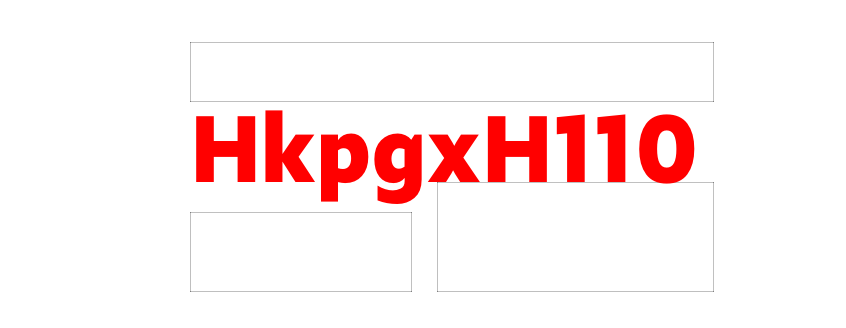
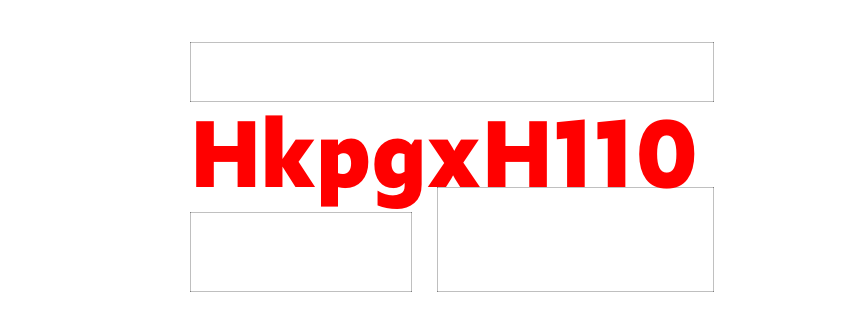
Add SketchContext testing examples
Add FlatContext testing examples

diff --git a/Basics/E11_Flat/E00_FlatTextPosition.py b/Basics/E11_Flat/E00_FlatTextPosition.py
@@ -1,0 +1,51 @@
+
+from flat import rgb, font, shape, strike, document, paragraph, text
+from pagebot.fonttoolbox.objects.font import findFont
+
+# Get the PageFont instance
+pbFont = findFont('PageBot-Regular')
+fontSize = 200
+red = rgb(255, 0, 100)
+black = rgb(0, 0, 0)
+flatFont = font.open(pbFont.path)
+
+figure = shape().stroke(black).width(2.5)
+strk = strike(flatFont).color(red).size(fontSize, tracking=0.1)
+
+# Flat has origin in top-left
+flatDoc = document(1000, 1300, 'pt')
+flatPage = flatDoc.addpage()
+
+x = 50
+y = 100
+flatPage.place(figure.rectangle(x, y, 20, 20))
+placedText = flatPage.place(strk.text('textV.W.Hkpx'))
+placedText.position(x, y) # Placing on top of text
+# Placing as frame seems to give not control on vertical position.
+placedText = flatPage.place(strk.text('Hkpx'))
+placedText.frame(x+400, y, placedText.width, fontSize)
+
+y = 600
+flatPage.place(figure.rectangle(x, y-20, 20, 20))
+placedText = flatPage.place(strk.text('Hkpx'))
+ascender = fontSize*pbFont.info.typoAscender/pbFont.info.unitsPerEm
+# Placing as frame seems to give not control on vertical position.
+#placedText.position(x, 400-) # Placing on baseline
+placedText.frame(x, y-ascender, placedText.width, fontSize)
+
+# Mixing spans in a paragraph to make baselines the same.
+y = 900
+flatPage.place(figure.rectangle(x, y-20, 20, 20))
+spans = []
+for fontSize in range(50, 300, 50):
+    strk = strike(flatFont).color(red).size(fontSize)
+    spans.append(strk.span('Hn'))
+par = [paragraph(spans)]
+placedText = flatPage.place(text(par))
+# Placing as frame seems to give not control on vertical position.
+#placedText.position(x, 400-) # Placing on baseline
+ascender = fontSize*pbFont.info.typoAscender/pbFont.info.unitsPerEm
+placedText.frame(x, y-ascender, placedText.width, fontSize)
+flatDoc.pdf('_export/E00_TextPosition.pdf')
+
+print('Done')

diff --git a/Basics/E10_Sketch/E01_HkpgxH110FromSketch.py b/Basics/E10_Sketch/E01_HkpgxH110FromSketch.py
@@ -64,10 +64,11 @@ print('Font/fontSize/leading:', font, fontSize, leading)
 # Create a drawBotContext to save the Sketch based Document as other format.
 # The content and styles of the BabelStrings comes from the Sketch file,
 # but they are converted to DrawBot behavior, able to export to PDF.
-drawBotContext = getContext('DrawBot')
-# Create a Document instance with this DrawBotContext and let the 
+#exportContext = getContext('DrawBot')
+exportContext = getContext('Flat')
+# Create a Document instance with this exportContext and let the 
 # SketchContext read its pages into it.
-doc = Document(name='TestBabelString', context=drawBotContext)
+doc = Document(name='TestBabelString', context=exportContext)
 # Read the Sketch file, convert SketchAttributedStrings into BabelStrings
 context.readDocument(doc) 
 print('Doc page size', doc.w, doc.h, doc[1].w, doc[1].h)

diff --git a/Basics/E11_Flat/E00_FlatFlat.py b/Basics/E11_Flat/E00_FlatFlat.py
@@ -1,0 +1,15 @@
+
+from flat import rgb, font, shape, strike, document
+
+red = rgb(255, 0, 100)
+flatFont = font.open('/Library/Fonts/Georgia Bold.ttf')
+figure = shape().stroke(red).width(2.5)
+headline = strike(flatFont).color(red).size(20, 24)
+
+d = document(100, 100, 'mm')
+p = d.addpage()
+p.place(figure.circle(50, 50, 20))
+p.place(headline.text('Hello world!')).frame(10, 10, 80, 80)
+p.image(kind='rgb').png('_export/E00_Hello.png')
+p.svg('_export/E00_Hello.svg')
+d.pdf('_export/E00_Hello.pdf')
